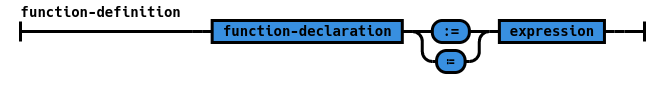
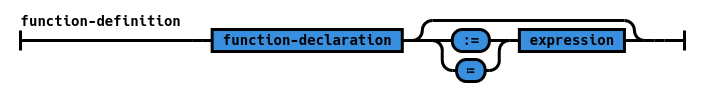
allow function to be undefined, for FFI bindings

Changed region(s): [[0.0301, 0.1739, 0.994, 0.8261], [0.0301, 0.0652, 0.2711, 0.2609], [0.0, 0.4348, 0.0301, 0.5]]

diff --git a/railroad-diagrams.py b/railroad-diagrams.py
@@ -620,12 +620,16 @@ def zilch_function_definition():
 	inner = Stack(
 		Sequence(
 			NonTerminal('function-declaration'),
-			Choice(
-				0,
-				Terminal(':='),
-				Terminal('≔')
-			),
-			NonTerminal('expression')
+		    	Optional(
+			    Sequence(
+				Choice(
+				    0,
+				    Terminal(':='),
+				    Terminal('≔')
+				),
+				NonTerminal('expression')
+			    )
+			)
 		)
 	)
 
@@ -1679,4 +1683,4 @@ def zilch_letin():
 
 	return mk_diagram2('let-in', inner)
 
-zilch_impl().writeSvg(sys.stdout.write)
+zilch_function_definition().writeSvg(sys.stdout.write)
